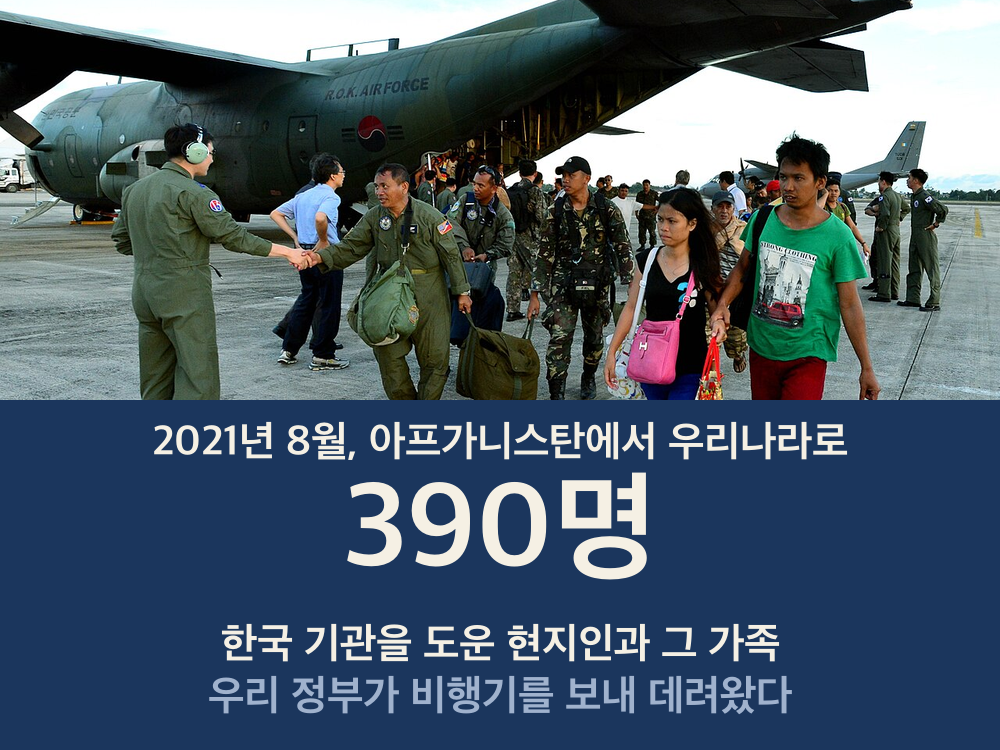
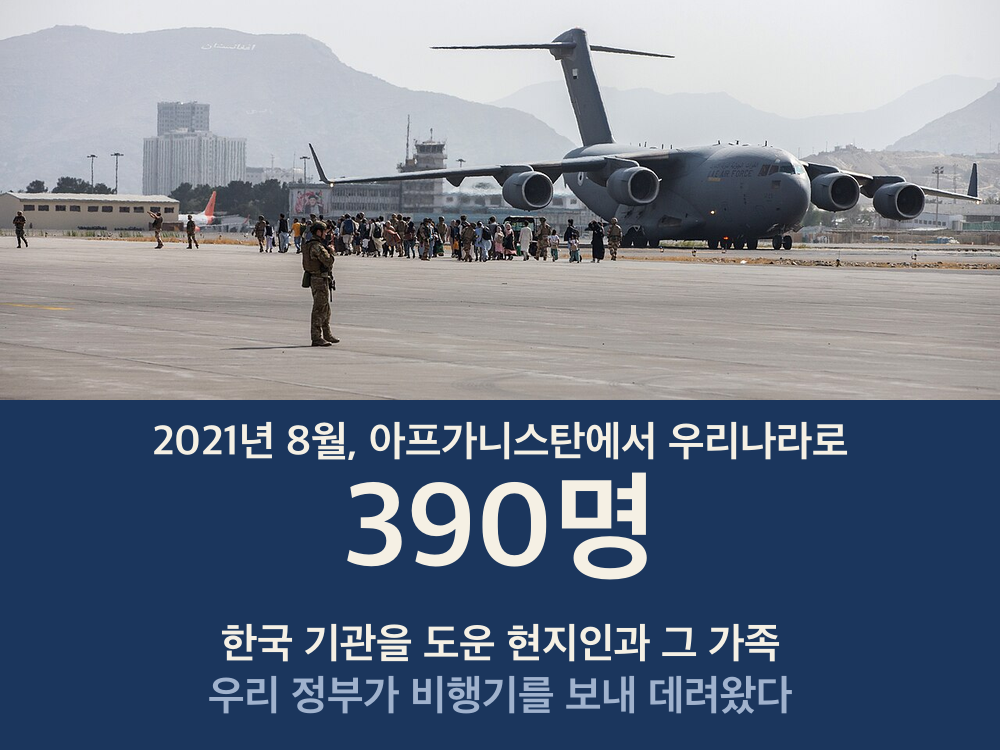
사회② 7-4: 아프가니스탄 390명 카드 사진 교체 — 2013 필리핀 구호 사진 → 2021-08-21 카불 공항 피란민 탑승(미 해병대, 퍼블릭 도메인), 캡션에 공군 C-130J 8/24~25 카불 투입(정책브리핑) · 천대현 10/27 «변경하고 PUSH» · data-id·answer·label 불변
Claude-Session: https://claude.ai/code/session_0112jfuNjXUAgEuhZG5Yg8vB

diff --git a/worksheets/7-4차시_인구이동의영향_개념편.html b/worksheets/7-4차시_인구이동의영향_개념편.html
@@ -1339,7 +1339,7 @@ table:has(.ox-group) td:first-child { width: 46px; text-align: center; color: #6
 <figure class="ws-fig"><a class="ws-fig-zoom" href="images/7-4_photo_zaatari_camp.jpg" target="_blank" rel="noopener" title="눌러서 크게 보기"><img src="images/7-4_photo_zaatari_camp.jpg" alt="요르단의 자타리 난민촌 — 시리아 난민이 사는 천막과 임시 집이 끝없이 이어진다(2013년)" loading="lazy"></a><figcaption>요르단의 자타리 난민촌 — 시리아 난민이 사는 천막과 임시 집이 끝없이 이어진다(2013년)</figcaption></figure>
 <p>시리아 난민도 가장 많이 머문 곳은 이웃 나라 튀르키예·레바논·요르단이었다. 사진 속 요르단의 난민촌 한 곳이 작은 도시만 하다.</p>
 </section><section class="ws-sw-pane" data-i="3" hidden><h3 class="ws-sw-h">그리고 우리나라는?</h3>
-<figure class="ws-fig"><a class="ws-fig-zoom" href="images/7-4_card_afghan390_v2.png" target="_blank" rel="noopener" title="눌러서 크게 보기"><img src="images/7-4_card_afghan390_v2.png" alt="한국 공군 수송기 — 사진은 2013년 필리핀 재난 구호 때다. 2021년 8월 26~27일 '미라클 작전'에도 공군 수송기가 갔다" loading="lazy"></a><figcaption>한국 공군 수송기 — 사진은 2013년 필리핀 재난 구호 때다. 2021년 8월 26~27일 '미라클 작전'에도 공군 수송기가 갔다</figcaption></figure>
+<figure class="ws-fig"><a class="ws-fig-zoom" href="images/7-4_card_afghan390_v2.png" target="_blank" rel="noopener" title="눌러서 크게 보기"><img src="images/7-4_card_afghan390_v2.png" alt="2021년 8월 21일 아프가니스탄 카불 공항 — 수송기에 오르는 피란민들. 사진 속 비행기는 다른 나라 수송기이고, 8월 24~25일에는 우리 공군 수송기도 이 공항에 내려 사람들을 태웠다" loading="lazy"></a><figcaption>2021년 8월 21일 아프가니스탄 카불 공항 — 수송기에 오르는 피란민들. 사진 속 비행기는 다른 나라 수송기이고, 8월 24~25일에는 우리 공군 수송기도 이 공항에 내려 사람들을 태웠다</figcaption></figure>
 <p>우리나라도 남의 일만은 아니다. 2021년 8월, 우리 정부는 아프가니스탄에서 한국 기관을 도운 현지인과 그 가족 390명을 데려왔다.</p>
 <blockquote>🔑 말 넷(받아들이는 비용)의 무게는 누가 가장 많이 지고 있을까?</blockquote>
 </section></div><div class="ws-sw-nav"><button type="button" onclick="swStep('sw180',-1)">‹ 이전</button><span class="ws-sw-count"><b>1</b> / 4</span><button type="button" onclick="swStep('sw180',1)">다음 ›</button></div></div><script>(function(){if(!window.swGo){window.swGo=function(id,i){var g=document.getElementById(id);if(!g)return;var ps=g.querySelectorAll(".ws-sw-pane"),n=ps.length;i=((i%n)+n)%n;ps.forEach(function(e){e.hidden=(+e.dataset.i!==i);});g.querySelectorAll(".ws-sw-tab").forEach(function(e,k){e.classList.toggle("on",k===i);e.setAttribute("aria-selected",k===i);});var c=g.querySelector(".ws-sw-count b");if(c)c.textContent=i+1;g.dataset.cur=i;};window.swStep=function(id,d){var g=document.getElementById(id);if(g)swGo(id,(+(g.dataset.cur||0))+d);};}var g=document.getElementById("sw180"),x0=null,y0=null;if(!g)return;g.querySelector(".ws-sw-stage").addEventListener("touchstart",function(e){x0=e.touches[0].clientX;y0=e.touches[0].clientY;},{passive:true});g.querySelector(".ws-sw-stage").addEventListener("touchend",function(e){if(x0===null)return;var dx=e.changedTouches[0].clientX-x0,dy=e.changedTouches[0].clientY-y0;x0=null;if(Math.abs(dx)>60&&Math.abs(dx)>1.5*Math.abs(dy)){var t=e.target;if(t.closest&&t.closest("input,textarea,.ws-vcd-track,.ws-mb,.ws-gal,.pk-swipe"))return;swStep("sw180",dx<0?1:-1);g.scrollIntoView({block:"start",behavior:"smooth"});}},{passive:true});})();</script>
